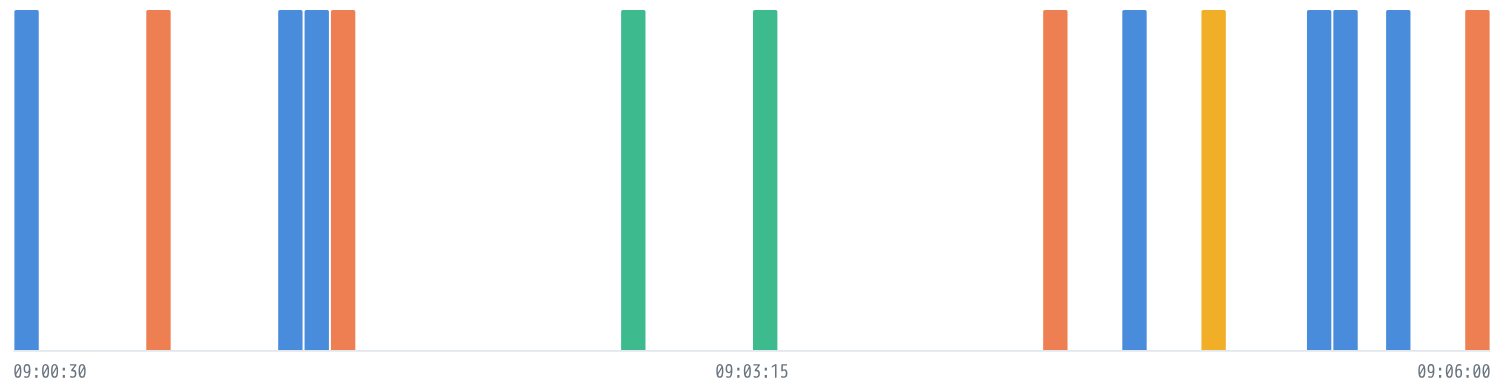
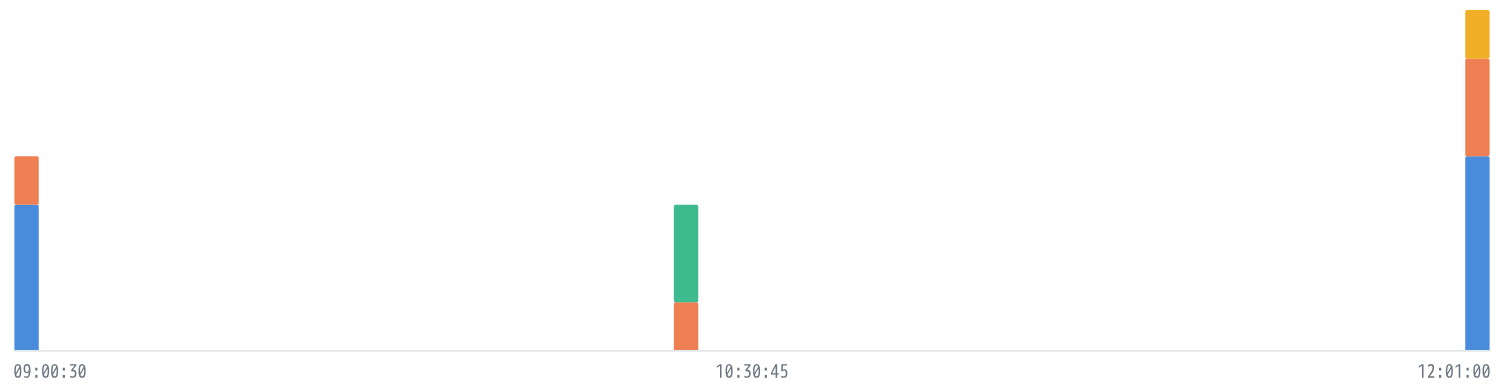
Spread the demo across three conversations so it shows what it claims
The whole fixture happened inside six minutes, so exchange grouping folded it
into a single conversation and the insights panel — the part that exists to show
one entry per conversation — could only ever show one. The demo did not
demonstrate the feature it was meant to demonstrate.

Messages now fall into three sittings across a morning with real silences
between them, and three of them state a conclusion the way people actually do
("you were right that…", "agreed, and adopting…", "root cause was…"), so the
decided tier has something to surface. The compact second offsets in the
generator are unchanged; a small table stretches them.

The sample findings were four paragraphs each and pushed everything below them
off the panel. Trimmed to a claim and a sentence, which is what a curated finding
should be anyway.

Screenshots regenerated from the demo, so the README now shows three
conversations, both tiers, and all three kinds of surfaced conclusion.

diff --git a/tools/make-fixture.py b/tools/make-fixture.py
@@ -57,9 +57,29 @@ H_B = "dddd4444eeee5555ffff6666"
 BASE_H, BASE_M = 9, 0
 
 
+# The exchange is spread over a morning rather than six minutes, with two real
+# silences in it, so the fixture exercises conversation grouping instead of
+# collapsing into a single run. Offsets below stay in seconds and readable; this
+# table stretches them into three sittings separated by long gaps.
+#   sitting 1  the assignment and the correction        09:00
+#   sitting 2  staging results and the canary           10:20
+#   sitting 3  production sign-off and the loose ends   11:55
+SITTINGS = ((0, 0), (100, 80 * 60), (250, 175 * 60))
+
+
+def _stretch(sec):
+    """Map a compact offset onto whichever sitting it belongs to."""
+    shift = 0
+    for start, delta in SITTINGS:
+        if sec >= start:
+            shift = delta
+    return sec + shift
+
+
 def ts(sec_offset, ms=0):
     """Absolute timestamp from a whole-second offset. Millisecond precision is
     load-bearing: boundary dwell is ~12ms and would round to zero without it."""
+    sec_offset = _stretch(sec_offset)
     total = BASE_M * 60 + sec_offset
     return (f"2026-03-14T{BASE_H + total // 3600:02d}:"
             f"{(total // 60) % 60:02d}:{total % 60:02d}.{ms:03d}Z")
@@ -222,7 +242,8 @@ B2 = ("Staging applied in 6 minutes, backfill running. Flagging something "
       "measured 11s of lock hold with NO concurrent readers. Production reads "
       "that table on every checkout. Start from 500 and verify it.")
 
-B3 = ("Runbook amended to 500 and marked REQUIRES VERIFICATION. Your point "
+B3 = ("You were right that the staging number does not transfer. Runbook amended "
+      "to 500 and marked REQUIRES VERIFICATION. Your point "
       "exposes a second thing I had wrong: I had scheduled the run for 03:00 "
       "to minimise impact, but if the constraint is lock contention rather "
       "than throughput then the window buys a smaller ops team, not a safer "
@@ -238,7 +259,8 @@ B5 = ("Backfill finished: 4,118,204 rows in 41 minutes, zero retries, peak lag "
       "batch size governs safety and barely touches duration. Anyone who later "
       "raises it for speed gets no speedup and all of the lock risk.")
 
-B6 = ("Adding that as a warning rather than a note, because the obvious "
+B6 = ("Agreed, and adopting your number. Adding it as a warning rather than a "
+      "note, because the obvious "
       "optimisation is the dangerous one. Production run is scheduled.")
 
 # Case 14: a fictional credential, so the scrubber is exercised end to end.
@@ -246,7 +268,8 @@ B7 = ("Pasting the staging export config so you have it:\n"
       "  export GH_TOKEN=ghp_EXAMPLEFAKETOKEN0123456789abcdefXY\n"
       "Rotate it after the run — it is scoped to the migration bucket only.")
 
-B8 = ("Canary held at 2% for the full window. p99 moved 3ms. Clearing the "
+B8 = ("Root cause was the index rebuild, not the batched writes. Canary held at "
+      "2% for the full window, p99 moved 3ms. Clearing the "
       "rollout to 25%.")
 
 
